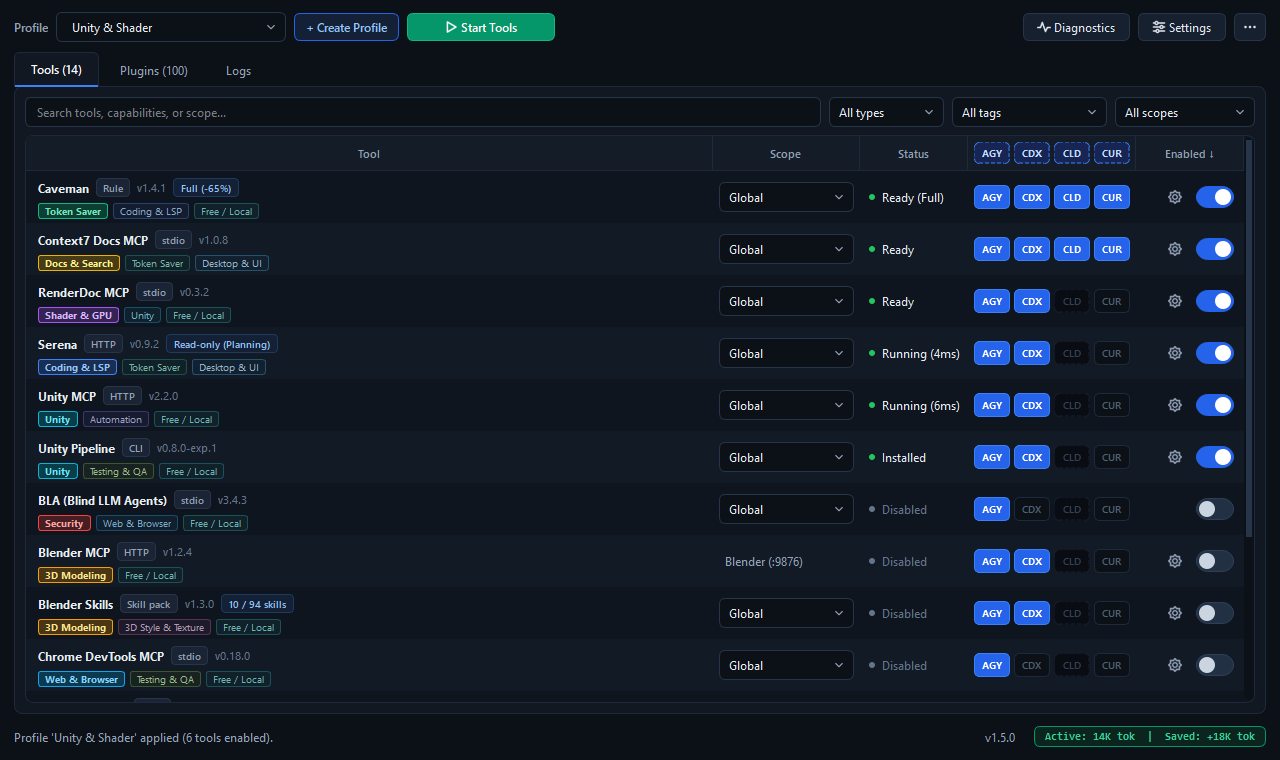
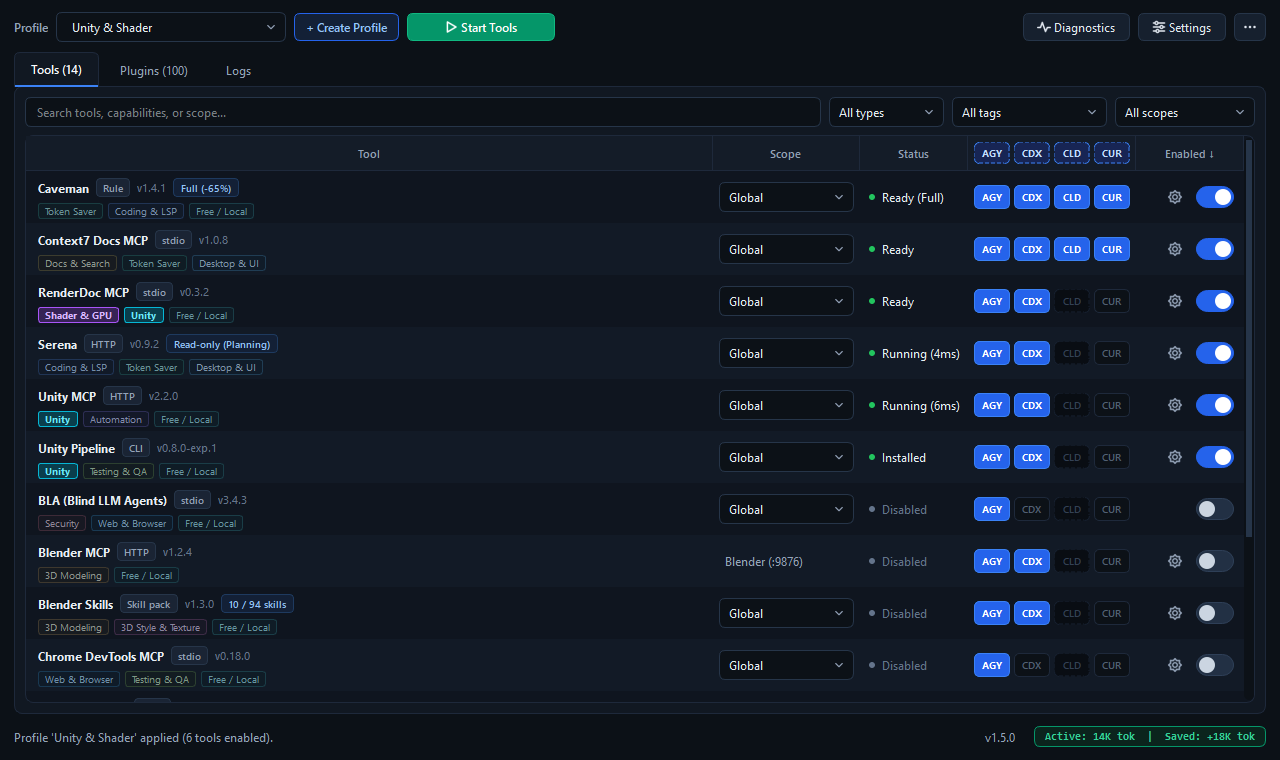
style(tags): mute all unselected tags and shine only top-selected tags

diff --git a/app/ui/theme.py b/app/ui/theme.py
@@ -960,46 +960,46 @@ def _mix_hex(base_hex: str, tint_hex: str, ratio: float) -> str:
     return f"#{r:02x}{g:02x}{bl:02x}"
 
 
-def _tag_visual_tokens(tag_id: str, is_primary: bool, is_light: bool) -> tuple[str, str, str, str, str, int]:
+def _tag_visual_tokens(tag_id: str, is_highlighted: bool, is_light: bool) -> tuple[str, str, str, str, str, int]:
     acc_d, txt_d, acc_l, txt_l = TAG_COLOR_ANCHORS.get(
         tag_id, ("#3b82f6", "#93c5fd", "#2563eb", "#1e40af")
     )
     if is_light:
-        if is_primary:
-            bg = _mix_hex("#ffffff", acc_l, 0.16)
+        if is_highlighted:
+            bg = _mix_hex("#ffffff", acc_l, 0.17)
             border = acc_l
             fg = txt_l
-            hover_bg = _mix_hex("#ffffff", acc_l, 0.25)
+            hover_bg = _mix_hex("#ffffff", acc_l, 0.26)
             hover_border = txt_l
             weight = 700
         else:
-            bg = _mix_hex("#f8fafc", acc_l, 0.05)
-            border = _mix_hex("#cbd5e1", acc_l, 0.30)
-            fg = _mix_hex("#64748b", txt_l, 0.48)
-            hover_bg = _mix_hex("#f1f5f9", acc_l, 0.13)
-            hover_border = _mix_hex("#94a3b8", acc_l, 0.60)
+            bg = _mix_hex("#f8fafc", acc_l, 0.03)
+            border = _mix_hex("#dbe2ec", acc_l, 0.16)
+            fg = _mix_hex("#64748b", txt_l, 0.25)
+            hover_bg = _mix_hex("#f1f5f9", acc_l, 0.12)
+            hover_border = _mix_hex("#94a3b8", acc_l, 0.50)
             weight = 500
     else:
-        if is_primary:
-            bg = _mix_hex("#0b1017", acc_d, 0.27)
+        if is_highlighted:
+            bg = _mix_hex("#0b1017", acc_d, 0.28)
             border = acc_d
             fg = txt_d
             hover_bg = _mix_hex("#0b1017", acc_d, 0.38)
             hover_border = txt_d
             weight = 700
         else:
-            bg = _mix_hex("#101722", acc_d, 0.06)
-            border = _mix_hex("#1e293b", acc_d, 0.28)
-            fg = _mix_hex("#7c8ca1", txt_d, 0.44)
-            hover_bg = _mix_hex("#141e2d", acc_d, 0.16)
-            hover_border = _mix_hex("#334155", acc_d, 0.65)
+            bg = _mix_hex("#0f1621", acc_d, 0.035)
+            border = _mix_hex("#1b2535", acc_d, 0.16)
+            fg = _mix_hex("#69798f", txt_d, 0.25)
+            hover_bg = _mix_hex("#141e2d", acc_d, 0.15)
+            hover_border = _mix_hex("#334155", acc_d, 0.58)
             weight = 500
     return bg, border, fg, hover_bg, hover_border, weight
 
 
-def tag_button_qss(tag_id: str, is_primary: bool, is_light: bool) -> str:
-    """Return clickable QPushButton QSS where every tag has its own hue, but only primary (1st) tags shine."""
-    bg, border, fg, h_bg, h_border, weight = _tag_visual_tokens(tag_id, is_primary, is_light)
+def tag_button_qss(tag_id: str, is_highlighted: bool = False, is_light: bool = False) -> str:
+    """Return clickable QPushButton QSS: soft/muted hue by default, glowing only when selected from top."""
+    bg, border, fg, h_bg, h_border, weight = _tag_visual_tokens(tag_id, is_highlighted, is_light)
     return (
         f"QPushButton {{ background-color: {bg}; border: 1px solid {border}; border-radius: 3px; "
         f"color: {fg}; padding: 0px 6px; font-size: 10px; font-weight: {weight}; }}"
@@ -1007,41 +1007,65 @@ def tag_button_qss(tag_id: str, is_primary: bool, is_light: bool) -> str:
     )
 
 
-def tag_pill_qss(tag_id: str, is_primary: bool, is_light: bool) -> str:
-    """Return non-clickable QLabel QSS matching tag_button_qss (primary glows, secondary stays muted)."""
-    bg, border, fg, _h_bg, _h_border, weight = _tag_visual_tokens(tag_id, is_primary, is_light)
+def tag_pill_qss(tag_id: str, is_highlighted: bool = False, is_light: bool = False) -> str:
+    """Return non-clickable QLabel QSS: soft/muted hue by default, glowing only when selected from top."""
+    bg, border, fg, _h_bg, _h_border, weight = _tag_visual_tokens(tag_id, is_highlighted, is_light)
     return (
         f"background-color: {bg}; border: 1px solid {border}; border-radius: 3px; "
         f"color: {fg}; padding: 0px 6px; font-size: 10px; font-weight: {weight};"
     )
 
 
+def active_tag_combo_qss(tag_id: str, is_light: bool = False) -> str:
+    """Highlight the top tag filter QComboBox in the selected tag's signature color when filtered."""
+    if not tag_id or tag_id == "ALL" or tag_id not in TAG_COLOR_ANCHORS:
+        return ""
+    bg, border, fg, _h_bg, _h_border, _w = _tag_visual_tokens(tag_id, True, is_light)
+    url = _resolve_asset_url("chevron_light.png" if is_light else "chevron_dark.png")
+    popup_bg = "#ffffff" if is_light else "#111822"
+    popup_fg = "#0f172a" if is_light else "#e6edf3"
+    popup_bd = "#cbd5e1" if is_light else "#263549"
+    sel_bg = "#dbeafe" if is_light else "#1e3a5f"
+    sel_fg = "#0f172a" if is_light else "#f8fafc"
+    return (
+        f"QComboBox {{ background-color: {bg}; border: 1px solid {border}; border-radius: 6px; "
+        f"padding: 5px 9px; color: {fg}; font-weight: 700; }}"
+        f"QComboBox::drop-down {{ subcontrol-origin: padding; subcontrol-position: top right; width: 24px; border: none; }}"
+        f"QComboBox::down-arrow {{ image: url({url}); width: 12px; height: 12px; margin-right: 4px; }}"
+        f"QComboBox QAbstractItemView {{ background-color: {popup_bg}; border: 1px solid {popup_bd}; "
+        f"color: {popup_fg}; selection-background-color: {sel_bg}; selection-color: {sel_fg}; "
+        f"font-weight: 500; outline: none; }}"
+    )
+
+
 def wizard_chip_qss(tag_id: str, is_light: bool, is_benefit: bool = False) -> str:
-    """Return checkable QPushButton QSS for ProfileWizardDialog tag chips with per-tag signature colors."""
+    """Return checkable QPushButton QSS for ProfileWizardDialog: calm muted idle, glowing when checked."""
     acc_d, txt_d, acc_l, txt_l = TAG_COLOR_ANCHORS.get(
         tag_id, ("#3b82f6", "#93c5fd", "#2563eb", "#1e40af")
     )
     pad = "5px 14px" if is_benefit else "5px 9px"
     if is_light:
-        idle_bg = _mix_hex("#ffffff", acc_l, 0.06)
-        idle_bd = _mix_hex("#cbd5e1", acc_l, 0.36)
-        idle_fg = _mix_hex("#334155", txt_l, 0.55)
-        hov_bg = _mix_hex("#f8fafc", acc_l, 0.14)
+        idle_bg = _mix_hex("#f8fafc", acc_l, 0.035)
+        idle_bd = _mix_hex("#dbe2ec", acc_l, 0.18)
+        idle_fg = _mix_hex("#64748b", txt_l, 0.26)
+        hov_bg = _mix_hex("#f1f5f9", acc_l, 0.12)
+        hov_fg = _mix_hex("#334155", txt_l, 0.65)
         chk_bg = _mix_hex("#ffffff", acc_l, 0.20)
         chk_bd = acc_l
         chk_fg = txt_l
     else:
-        idle_bg = _mix_hex("#111824", acc_d, 0.08)
-        idle_bd = _mix_hex("#223044", acc_d, 0.35)
-        idle_fg = _mix_hex("#94a3b8", txt_d, 0.50)
-        hov_bg = _mix_hex("#141e2d", acc_d, 0.18)
+        idle_bg = _mix_hex("#101722", acc_d, 0.04)
+        idle_bd = _mix_hex("#1e293b", acc_d, 0.18)
+        idle_fg = _mix_hex("#7b8ba1", txt_d, 0.26)
+        hov_bg = _mix_hex("#141e2d", acc_d, 0.15)
+        hov_fg = _mix_hex("#cbd5e1", txt_d, 0.65)
         chk_bg = _mix_hex("#0b1017", acc_d, 0.32)
         chk_bd = acc_d
         chk_fg = txt_d
     return (
         f"QPushButton {{ background-color: {idle_bg}; border: 1px solid {idle_bd}; border-radius: 6px; "
-        f"color: {idle_fg}; padding: {pad}; font-size: 11px; font-weight: 600; }}"
-        f"QPushButton:hover {{ background-color: {hov_bg}; border-color: {chk_bd}; }}"
+        f"color: {idle_fg}; padding: {pad}; font-size: 11px; font-weight: 500; }}"
+        f"QPushButton:hover {{ background-color: {hov_bg}; border-color: {chk_bd}; color: {hov_fg}; }}"
         f"QPushButton:checked {{ background-color: {chk_bg}; border: 1px solid {chk_bd}; "
         f"color: {chk_fg}; font-weight: 700; }}"
     )

diff --git a/app/ui/main_window.py b/app/ui/main_window.py
@@ -631,6 +631,19 @@ class MainWindow(ToolsTabMixin, PluginsTabMixin, LogsTabMixin, QMainWindow):
             self.meta["custom_presets"] = raw
         return raw
 
+    def get_active_profile_tags(self) -> set[str]:
+        """Return the canonical tag IDs associated with the currently selected top profile, if any."""
+        cur_active = str(self.meta.get("active_profile", "") or "")
+        if cur_active.startswith("builtin:"):
+            p_key = cur_active.split(":", 1)[1]
+            return {str(x) for x in PROFILES.get(p_key, {}).get("tags", [])}
+        if cur_active.startswith("custom:"):
+            p_name = cur_active.split(":", 1)[1]
+            pdata = self._get_custom_presets().get(p_name, {})
+            if isinstance(pdata, dict) and isinstance(pdata.get("tags"), list):
+                return {str(x) for x in pdata["tags"]}
+        return set()
+
     def _add_combo_header(self, cmb: QComboBox, title: str) -> None:
         model = cmb.model()
         if isinstance(model, QStandardItemModel):
@@ -1164,14 +1177,16 @@ class MainWindow(ToolsTabMixin, PluginsTabMixin, LogsTabMixin, QMainWindow):
                 if cv_tool:
                     sync_caveman_on_disk(cv_tool, lang=lang_snap)
                 sync_mcp_json_clients(tools_snap, self.vault, proj_snap, lang=lang_snap)
-                live_map = scan_live_process_locations(lang=lang_snap)
+                eff_lang = self.lang
+                live_map = scan_live_process_locations(lang=eff_lang)
                 out = []
                 for x in ws_snap:
                     ok, h_state, ping_str, ms, detail, loc_detail = probe_tool_health(
-                        x, len(skills_snap), proj_snap, live_map, lang=lang_snap, missing_required_keys=missing_keys
+                        x, len(skills_snap), proj_snap, live_map, lang=eff_lang, missing_required_keys=missing_keys
                     )
                     out.append((x.id, ok, h_state, ping_str, ms, detail, loc_detail))
-            safe_emit(self.bridge.health_done, out, live_map, True)
+            if self.lang == eff_lang:
+                safe_emit(self.bridge.health_done, out, live_map, True)
 
         threading.Thread(target=worker, daemon=True).start()
 
@@ -1580,14 +1595,16 @@ class MainWindow(ToolsTabMixin, PluginsTabMixin, LogsTabMixin, QMainWindow):
 
         def worker() -> None:
             try:
-                live_map = scan_live_process_locations(lang=lang_snap)
+                eff_lang = self.lang
+                live_map = scan_live_process_locations(lang=eff_lang)
                 out = []
                 for t in snap_tools:
                     ok, h_state, ping_str, ms, detail, loc_detail = probe_tool_health(
-                        t, sk_cnt, proj_snap, live_map, lang=lang_snap, missing_required_keys=missing_keys
+                        t, sk_cnt, proj_snap, live_map, lang=eff_lang, missing_required_keys=missing_keys
                     )
                     out.append((t.id, ok, h_state, ping_str, ms, detail, loc_detail))
-                safe_emit(self.bridge.health_done, out, live_map, True)
+                if self.lang == eff_lang:
+                    safe_emit(self.bridge.health_done, out, live_map, True)
             finally:
                 self._live_watch_busy = False
 
@@ -1662,8 +1679,10 @@ class MainWindow(ToolsTabMixin, PluginsTabMixin, LogsTabMixin, QMainWindow):
     def run_health_scan(self) -> None:
         self.seconds_left = 30
         if self._health_busy:
+            self._health_pending = True
             return
         self._health_busy = True
+        self._health_pending = False
         self.set_status(tr(self.lang, "msg_scanning"))
         snap_tools = copy.deepcopy(self.workspace_tools())
         sk_cnt = len(self.active_skills)
@@ -1683,7 +1702,11 @@ class MainWindow(ToolsTabMixin, PluginsTabMixin, LogsTabMixin, QMainWindow):
                     out.append((t.id, ok, h_state, ping_str, ms, detail, loc_detail))
             finally:
                 self._health_busy = False
-            safe_emit(self.bridge.health_done, out, live_map, False)
+            if self.lang == lang_snap:
+                safe_emit(self.bridge.health_done, out, live_map, False)
+            else:
+                self._health_pending = True
+                safe_emit(self.bridge.health_done, [], None, True)
 
         threading.Thread(target=worker, daemon=True).start()
 
@@ -1693,6 +1716,11 @@ class MainWindow(ToolsTabMixin, PluginsTabMixin, LogsTabMixin, QMainWindow):
         live_map: dict[str, str] | None = None,
         silent: bool = False,
     ) -> None:
+        if getattr(self, "_health_pending", False) and not self._health_busy:
+            self._health_pending = False
+            QTimer.singleShot(20, self.run_health_scan)
+            if not results:
+                return
         if isinstance(live_map, dict):
             self._latest_live_map = live_map
         by_id = {t.id: t for t in self.tools}

diff --git a/app/ui/tabs/tools_tab.py b/app/ui/tabs/tools_tab.py
@@ -42,7 +42,7 @@ from ...processes import probe_tool_health, scan_live_process_locations
 from ...tokens import compute_token_breakdown, fmt_tokens
 from ..dialogs.tool_info import ToolInfoDialog
 from ..icons import icon_color, make_icon
-from ..theme import tag_button_qss
+from ..theme import active_tag_combo_qss, tag_button_qss
 from ..widgets import AiMatrixHeaderView, HoverTableWidget, StatusBadgeWidget, ToggleSwitch
 
 
@@ -310,6 +310,8 @@ class ToolsTabMixin:
         tf = str(self.tag_cmb.currentData() or "ALL")
         pf = self.proj_filter_cmb.currentData() or "ALL"
         is_light = self.meta.get("theme", "dark") == "light"
+        self.tag_cmb.setStyleSheet(active_tag_combo_qss(tf, is_light=is_light))
+        profile_tags = self.get_active_profile_tags()
 
         vis_codes = self.get_visible_client_codes()
         ai_col_w = self.ai_header.refresh_visible_clients(vis_codes)
@@ -442,10 +444,11 @@ class ToolsTabMixin:
                 tg_l = QHBoxLayout()
                 tg_l.setContentsMargins(0, 0, 0, 0)
                 tg_l.setSpacing(5)
-                for tg_idx, tg in enumerate(t.tags[:3]):
+                for tg in t.tags[:3]:
                     tg_txt = tag_label(tg, self.lang)
+                    is_hi = (tg == tf) if tf != "ALL" else bool(t.enabled and tg in profile_tags)
                     tg_btn = QPushButton(tg_txt.replace("&", "&&"))
-                    tg_btn.setStyleSheet(tag_button_qss(tg, is_primary=(tg_idx == 0), is_light=is_light))
+                    tg_btn.setStyleSheet(tag_button_qss(tg, is_highlighted=is_hi, is_light=is_light))
                     tg_btn.setFixedHeight(16)
                     tg_btn.setCursor(Qt.CursorShape.PointingHandCursor)
                     tg_btn.setToolTip(tr(self.lang, "tag_filter_tip", tag=tg_txt))

diff --git a/app/ui/tabs/plugins_tab.py b/app/ui/tabs/plugins_tab.py
@@ -36,7 +36,7 @@ from ...tokens import fmt_tokens
 from ...updater import parse_semver
 from ..dialogs.add_repo import AddRepoDialog
 from ..dialogs.tool_info import ToolInfoDialog
-from ..theme import tag_button_qss
+from ..theme import active_tag_combo_qss, tag_button_qss
 from ..workers import safe_emit
 
 
@@ -269,6 +269,8 @@ class PluginsTabMixin:
         filtered = self._filtered_plugin_tools()
         is_light = self.meta.get("theme", "dark") == "light"
         muted_col = "#64748b" if is_light else "#94a3b8"
+        tag_f = str(self.plug_tag_cmb.currentData() or "ALL")
+        self.plug_tag_cmb.setStyleSheet(active_tag_combo_qss(tag_f, is_light=is_light))
 
         if not self.checking_plugins_busy:
             base_txt = tr(
@@ -388,10 +390,11 @@ class PluginsTabMixin:
                 tg_row = QHBoxLayout()
                 tg_row.setContentsMargins(0, 0, 0, 0)
                 tg_row.setSpacing(5)
-                for tg_idx, tg in enumerate(t.tags[:3]):
+                for tg in t.tags[:3]:
                     tg_txt = tag_label(tg, self.lang)
+                    is_hi = tag_f != "ALL" and tg == tag_f
                     tg_btn = QPushButton(tg_txt.replace("&", "&&"))
-                    tg_btn.setStyleSheet(tag_button_qss(tg, is_primary=(tg_idx == 0), is_light=is_light))
+                    tg_btn.setStyleSheet(tag_button_qss(tg, is_highlighted=is_hi, is_light=is_light))
                     tg_btn.setFixedHeight(16)
                     tg_btn.setCursor(Qt.CursorShape.PointingHandCursor)
                     tg_btn.setToolTip(tr(self.lang, "tag_filter_tip", tag=tg_txt))

diff --git a/app/ui/dialogs/tool_info.py b/app/ui/dialogs/tool_info.py
@@ -40,12 +40,24 @@ class ToolInfoDialog(QDialog):
 
         if tool.tags:
             is_light = parent.meta.get("theme", "dark") == "light"
+            cur_tab = parent.tabs.currentIndex() if hasattr(parent, "tabs") else 0
+            if cur_tab == 1 and hasattr(parent, "plug_tag_cmb"):
+                flt_tag = str(parent.plug_tag_cmb.currentData() or "ALL")
+                hi_tags = {flt_tag} if flt_tag != "ALL" else set()
+            else:
+                flt_tag = str(parent.tag_cmb.currentData() or "ALL") if hasattr(parent, "tag_cmb") else "ALL"
+                if flt_tag != "ALL":
+                    hi_tags = {flt_tag}
+                elif tool.enabled and hasattr(parent, "get_active_profile_tags"):
+                    hi_tags = parent.get_active_profile_tags()
+                else:
+                    hi_tags = set()
             tags_row = QHBoxLayout()
             tags_row.setSpacing(6)
-            for tg_idx, tg in enumerate(tool.tags):
+            for tg in tool.tags:
                 pill = QLabel(tag_label(tg, lang))
                 pill.setFixedHeight(18)
-                pill.setStyleSheet(tag_pill_qss(tg, is_primary=(tg_idx == 0), is_light=is_light))
+                pill.setStyleSheet(tag_pill_qss(tg, is_highlighted=(tg in hi_tags), is_light=is_light))
                 tags_row.addWidget(pill)
             tags_row.addStretch()
             lay.addLayout(tags_row)

diff --git a/app/catalog.py b/app/catalog.py
@@ -945,26 +945,31 @@ PROFILES: dict[str, dict[str, Any]] = {
         "title_key": "prof_desktop_coding_title",
         "desc_key": "prof_desktop_coding_desc",
         "enable": {"serena", "context7", "caveman"},
+        "tags": ["coding_lsp", "desktop_ui"],
     },
     "unity_shader": {
         "title_key": "prof_unity_shader_title",
         "desc_key": "prof_unity_shader_desc",
         "enable": {"unity_mcp", "unity_pipeline", "renderdoc_mcp", "serena", "context7", "caveman"},
+        "tags": ["unity", "shader_gpu"],
     },
     "modeling_3d": {
         "title_key": "prof_modeling_3d_title",
         "desc_key": "prof_modeling_3d_desc",
         "enable": {"blender_mcp", "blender_skills", "trellis", "gltf_transform", "elevenlabs_mcp", "caveman"},
+        "tags": ["modeling_3d", "style_3d"],
     },
     "web_security": {
         "title_key": "prof_web_security_title",
         "desc_key": "prof_web_security_desc",
         "enable": {"chrome_devtools", "bla", "serena", "context7", "caveman"},
+        "tags": ["web_browser", "security"],
     },
     "token_saver_only": {
         "title_key": "prof_token_saver_only_title",
         "desc_key": "prof_token_saver_only_desc",
         "enable": {"caveman"},
+        "tags": ["token_saver"],
     },
 }
 

diff --git a/app/ui/dialogs/profile_wizard.py b/app/ui/dialogs/profile_wizard.py
@@ -393,10 +393,10 @@ class ProfileWizardDialog(QDialog):
                     )
                     top_r.addWidget(lib_pill)
 
-                for tg_idx, tg in enumerate(t.tags):
+                for tg in t.tags:
                     t_pill = QLabel(tag_label(tg, self.lang))
                     t_pill.setFixedHeight(16)
-                    t_pill.setStyleSheet(tag_pill_qss(tg, is_primary=(tg_idx == 0), is_light=is_light))
+                    t_pill.setStyleSheet(tag_pill_qss(tg, is_highlighted=(tg in sel_set), is_light=is_light))
                     top_r.addWidget(t_pill)
 
                 if t.id == "blender_skills":

diff --git a/README.md b/README.md
@@ -38,7 +38,7 @@ No Python installation required:
 - **Passive Startup & Locked Start/Stop Control:** Opens with zero unsolicited background server spawns; a single bidirectional **Start Tools** / **Stop Tools** button stays safely locked until managed processes (`psutil.wait_procs`) and local TCP ports settle.
 - **Unified Per-Client MCP Matrix (`AGY / CDX / CLD / CUR`):** Enable or disable MCP servers, CLI tools, rules, and skill packs per AI client (**Google Antigravity**, **OpenAI Codex**, **Claude Code**, **Cursor**), with automatic Windows `cmd /c npx` wrapping and uninstalled-client dimming.
 - **Curated 100-Tool Library (Zero Auto-Downloads):** Keep your **Tools** workspace lean (`14` starter tools by default) and browse **100** verified Windows-compatible MCP/Skill/Rule entries across 10 categories in **Plugins** — **+ Add to Workspace** registers the tool definition with zero disk downloads.
-- **Priority-Ordered 18-Color Tags & `+ Create Profile` Wizard:** Each tool displays up to 3 semantic capability tags ordered by true primary purpose (with only the #1 superpower tag highlighted), powering one-click table filtering and the task-based **+ Create Profile** wizard alongside 5 built-in profiles.
+- **Priority-Ordered 18-Color Tags & `+ Create Profile` Wizard:** Each tool displays up to 3 semantic capability tags ordered by true primary purpose in calm per-tag hues that glow only when selected from the top profile, tag filter, or **+ Create Profile** wizard alongside 5 built-in profiles.
 - **Interactive Token Usage Breakdown:** Click the footer token badge anytime to inspect per-client 200K context load, per-tool schema share bars, **Token Saver** vs **Capability Schema** classifications, and live tool toggles.
 - **Dynamic Windows DPAPI Key Vault:** API key fields appear automatically in **Settings -> API Keys** whenever you add a key-backed tool to your workspace, encrypted at rest via Windows `CryptProtectData`.
 - **Diagnostics Center & SQLite Logs:** Run live end-to-end MCP handshakes (`initialize`, Blender socket, `stdio` JSON-RPC), release stuck local ports safely, reset individual tools to factory defaults, and export structured AI troubleshooting prompts.

diff --git a/CHANGELOG.md b/CHANGELOG.md
@@ -13,7 +13,7 @@ Major feature, UX, and catalog release introducing passive runtime control, a cu
 
 ### Token Analytics, Priority Tags & Task Profile Wizard
 - **Clickable Token Usage Breakdown:** Clicking the footer token badge opens an interactive breakdown dialog showing per-client 200K context load (`AGY`, `CDX`, `CLD`, `CUR`), aligned percentage share bars, **Token Saver** vs **Capability Schema** roles, and instant inline toggles.
-- **Priority-Ordered 18-Color Capability Tags:** Every tool's tags are ordered strictly by core capability (e.g. `3D Modeling` first on Blender, `Unity` first on Unity MCP, `Shader & GPU` first on RenderDoc, `Coding & LSP` first on Serena, `Token Saver` first on Caveman), with 18 distinct semantic colors where **only each tool's #1 primary tag shines**.
+- **Priority-Ordered 18-Color Capability Tags:** Every tool's tags are ordered strictly by core capability (e.g. `3D Modeling` first on Blender, `Unity` first on Unity MCP, `Shader & GPU` first on RenderDoc, `Coding & LSP` first on Serena, `Token Saver` first on Caveman), with 18 distinct muted semantic colors that **glow only when selected from the top profile, tag filter, or profile wizard**.
 - **`+ Create Profile` Task Wizard & Refreshed Profiles:** Select what you are working on by tag to auto-filter matching tools (from your workspace or all 100 library tools), preview live schema token impact, and save/apply custom profiles in one click, alongside 5 refreshed built-in profiles and 6 Blender 94-skill subgroups.
 
 ### Curated 100-Tool Library & Dynamic DPAPI Vault
